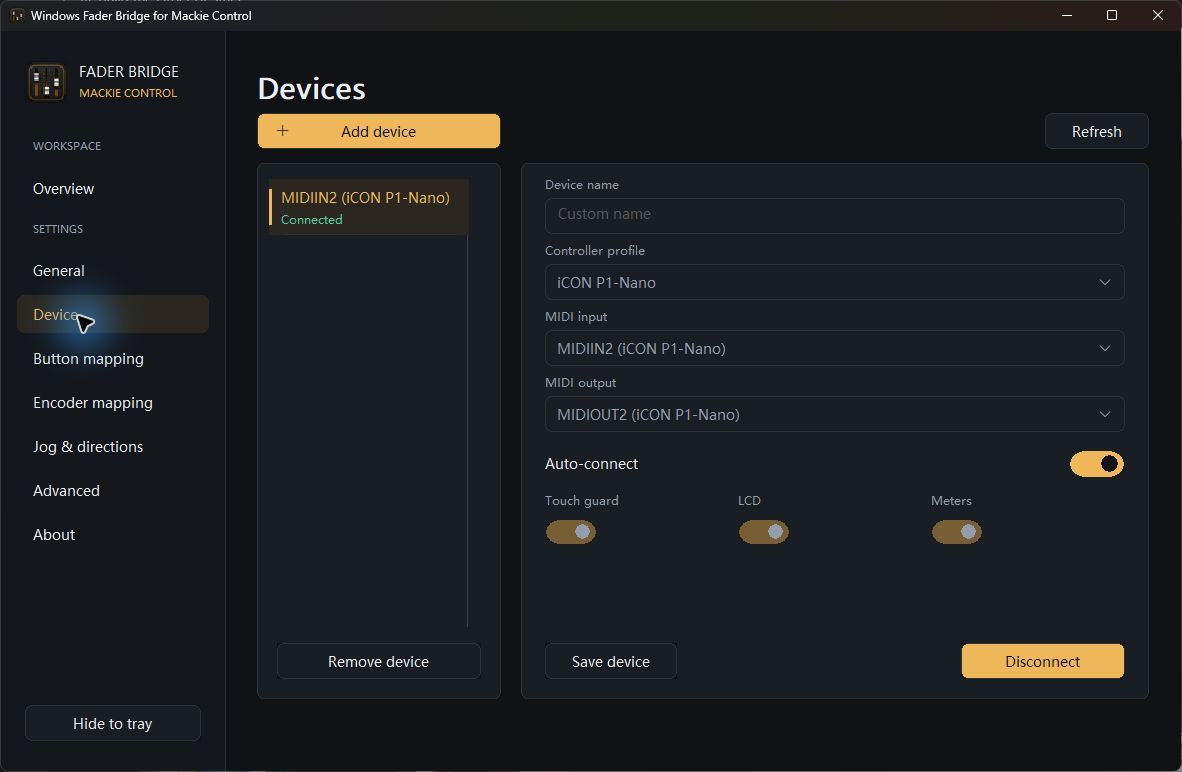
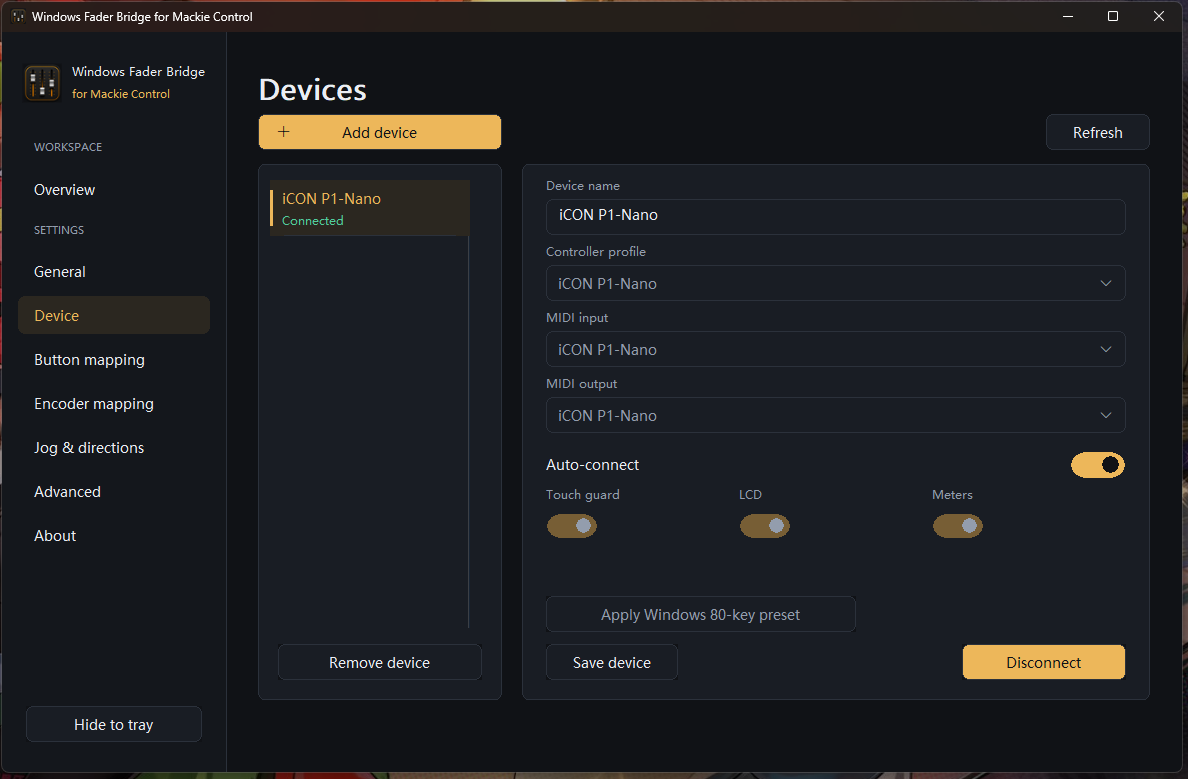
docs: add trilingual landing page and current screenshots

diff --git a/README.md b/README.md
@@ -2,25 +2,45 @@
 
 # Windows Fader Bridge for Mackie Control
 
-Control the Windows audio mixer from a Mackie Control / MCU-compatible MIDI controller.
+<p align="center"><a href="#简体中文">简体中文</a> ・ <a href="#english">English</a> ・ <a href="#日本語">日本語</a></p>
 
-**[Download v1.0.0](https://github.com/lindelea/windows-fader-bridge-mackie/releases/latest)**
+<p align="center"><strong><a href="https://github.com/lindelea/windows-fader-bridge-mackie/releases/latest">下载 / Download / ダウンロード v1.0.0</a></strong></p>
 
-No build tools are required. Download the installer and connect your controller.
+![Windows Fader Bridge for Mackie Control overview](docs/images/overview.png)
 
-[简体中文使用手册](docs/USER_GUIDE.zh-CN.md) ・ [English User Guide](docs/USER_GUIDE.en.md) ・ [日本語ユーザーガイド](docs/USER_GUIDE.ja.md)
+## 简体中文
 
-![Application overview](docs/images/overview.png)
+使用 Mackie Control / MCU 模式的 MIDI 控制器，直接控制 Windows 主音量、音频设备和每个正在发声的应用。
 
-Use motor faders, encoders and buttons for Windows output devices, input devices and individual applications. The app includes configurable button, encoder and Jog/Move/Zoom assignments, live meters and media information.
+- 推子、旋钮、按键、灯光和峰值表与 Windows 实时双向同步。
+- 支持播放信息、翻页以及可学习的 Windows、媒体和窗口命令。
+- iCON P1-Nano 已实机验证，也支持标准 MCU 控制器。
+- 无需编译；支持 Windows 11 x64。
 
-## Windows volume mixer for Mackie Control / MCU
+**[简体中文完整使用手册](docs/USER_GUIDE.zh-CN.md)**
 
-- Mix individual Windows applications from a MIDI control surface.
-- Control the Windows master output, inputs, pan, mute, and solo.
-- Use live motor-fader, LED, display, and meter feedback.
-- Configure Windows commands without scripts or virtual MIDI software.
+## English
 
-Requirements: Windows 11 x64 and a controller with Mackie Control / MCU mode. No Avid software is required. iCON P1-Nano has been physically verified; other MCU controllers may differ in their optional controls and displays.
+Control Windows master volume, audio devices, and individual audio applications from a MIDI controller in Mackie Control / MCU mode.
 
-This repository is for downloads and user documentation. The corresponding v1.0.0 source is available in the [development project](https://github.com/lindelea/windows-fader-bridge/tree/v1.0.0). Licensed under [MPL 2.0](LICENSE). Mackie Control and iCON are trademarks of their respective owners; this independent project is not affiliated with or endorsed by them.
+- Real-time bidirectional fader, encoder, button, LED, and meter feedback.
+- Playback information, banking, and learnable Windows, media, and window commands.
+- Physically verified with iCON P1-Nano; standard MCU controllers are also supported.
+- No build tools required; supports Windows 11 x64.
+
+**[Complete English User Guide](docs/USER_GUIDE.en.md)**
+
+## 日本語
+
+Mackie Control / MCU モードの MIDI コントローラーから、Windows のメイン音量、オーディオデバイス、音声を再生中の各アプリを直接操作します。
+
+- フェーダー、エンコーダー、ボタン、LED、メーターをリアルタイムに双方向同期。
+- 再生情報、バンク、学習可能な Windows・メディア・ウィンドウ操作に対応。
+- iCON P1-Nano で実機検証済み。標準 MCU コントローラーにも対応します。
+- ビルド不要。Windows 11 x64 に対応。
+
+**[日本語の完全なユーザーガイド](docs/USER_GUIDE.ja.md)**
+
+## License and source ・ 许可与源代码 ・ ライセンスとソース
+
+This user-facing repository contains downloads and manuals. The exact v1.0.0 source is in the [development project](https://github.com/lindelea/windows-fader-bridge/tree/v1.0.0). Licensed under [MPL 2.0](LICENSE). Mackie Control is a protocol name; this independent project is not affiliated with or endorsed by any controller manufacturer.

diff --git a/docs/USER_GUIDE.en.md b/docs/USER_GUIDE.en.md
@@ -8,6 +8,8 @@ The app lets a MIDI controller in Mackie Control / MCU mode operate the Windows 
 
 It is not a device-specific driver. iCON P1-Nano has been physically verified. Other MCU controllers use the same core protocol, but their optional buttons, displays, and lamps may differ.
 
+![Windows Fader Bridge for Mackie Control overview](images/overview.png)
+
 ## Requirements
 
 - Windows 11, 64-bit.
@@ -32,6 +34,8 @@ The project does not currently have a paid Windows code-signing certificate, so 
 4. Use the Generic Mackie Control profile for ordinary devices, or the P1-Nano profile for that model.
 5. Keep touch protection enabled and save. Auto-connect is on by default; manual mode uses **Connect device**.
 
+![Device and MIDI port settings](images/devices.png)
+
 Do not let Cubase, another DAW, and this app open the same MIDI port pair at the same time. P1-Nano can place Cubase and Windows control on separate DAW layers; use the dedicated port pair selected for the Windows layer.
 
 ## Default controls
@@ -50,6 +54,8 @@ Closed applications leave the online list and new applications join automaticall
 ## Custom buttons and encoders
 
 Use **Button mapping**, **Encoder mapping**, and **Jog & directions** to select a physical control and assign a Windows, media, window, or audio command. While learning controls on the selected device, recognized input is previewed and not executed.
+
+![Button learning and command assignment](images/mapping.png)
 
 Left, right, and press actions of encoders 3–8 are independent. Ordinary Jog, Move, and Zoom are also assigned separately; Navi / Focus retain their native device meaning.
 

diff --git a/docs/USER_GUIDE.zh-CN.md b/docs/USER_GUIDE.zh-CN.md
@@ -8,6 +8,8 @@
 
 它不是某一款设备的专用驱动。iCON P1-Nano 已经过实机验证；其他 MCU 控制器的基本协议相同，但额外按键、屏幕和灯光可能不同。
 
+![Windows Fader Bridge for Mackie Control 总览页](images/overview.png)
+
 ## 使用前准备
 
 - Windows 11 64 位。
@@ -32,6 +34,8 @@
 4. 普通设备选择“通用 Mackie Control”；P1-Nano 可选择专用配置。
 5. 保留“触摸保护”，保存设备。默认会自动连接；手动模式下点击“连接设备”。
 
+![设备与 MIDI 端口设置](images/devices.png)
+
 不要让 Cubase、其他 DAW 和本程序同时占用同一对 MIDI 端口。P1-Nano 可以把 Cubase 与 Windows 控制放在不同 DAW 层；Windows 层使用你为本程序选定的独立端口。
 
 ## 默认操作
@@ -50,6 +54,8 @@
 ## 自定义按键和旋钮
 
 在 **按键分配**、**旋钮分配**、**Jog 与方向** 页面选择实体控件，再从命令列表中分配 Windows、媒体、窗口或音频功能。编辑当前设备时，识别到的按键只用于学习，不会同时执行命令。
+
+![按键学习与命令分配](images/mapping.png)
 
 旋钮 3–8 的左转、右转、按下可以分别分配。普通 Jog、Move 与 Zoom 也分别设置；Navi / Focus 保留设备原本语义。
 
